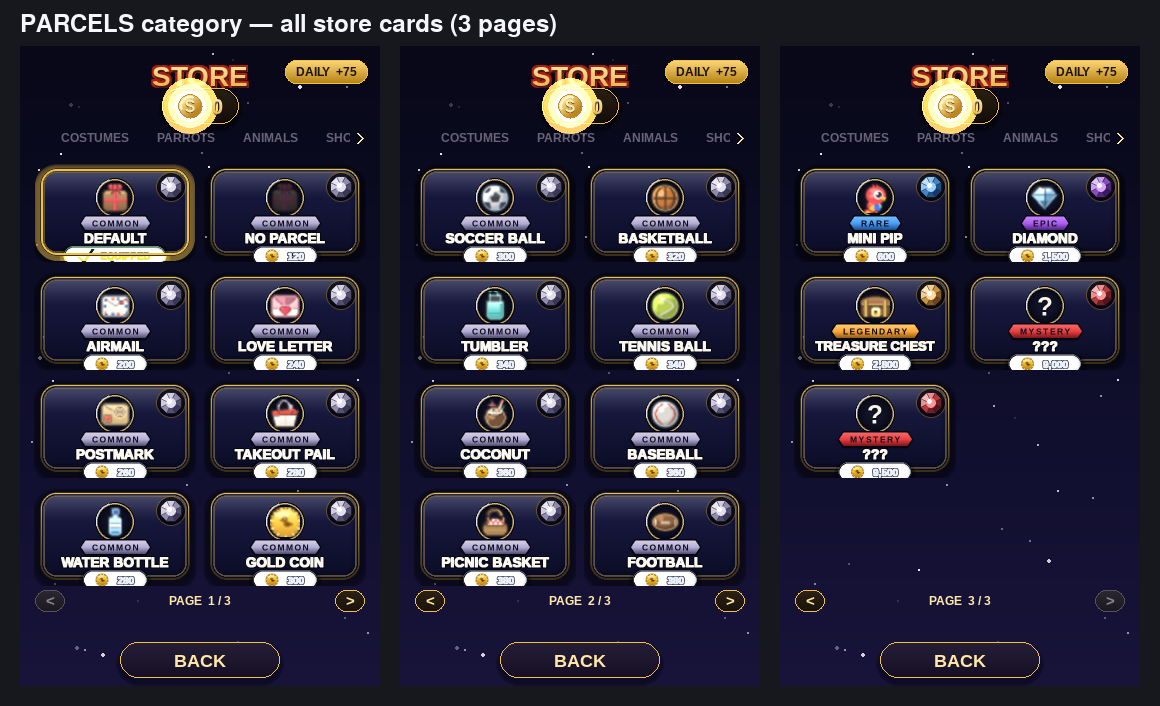
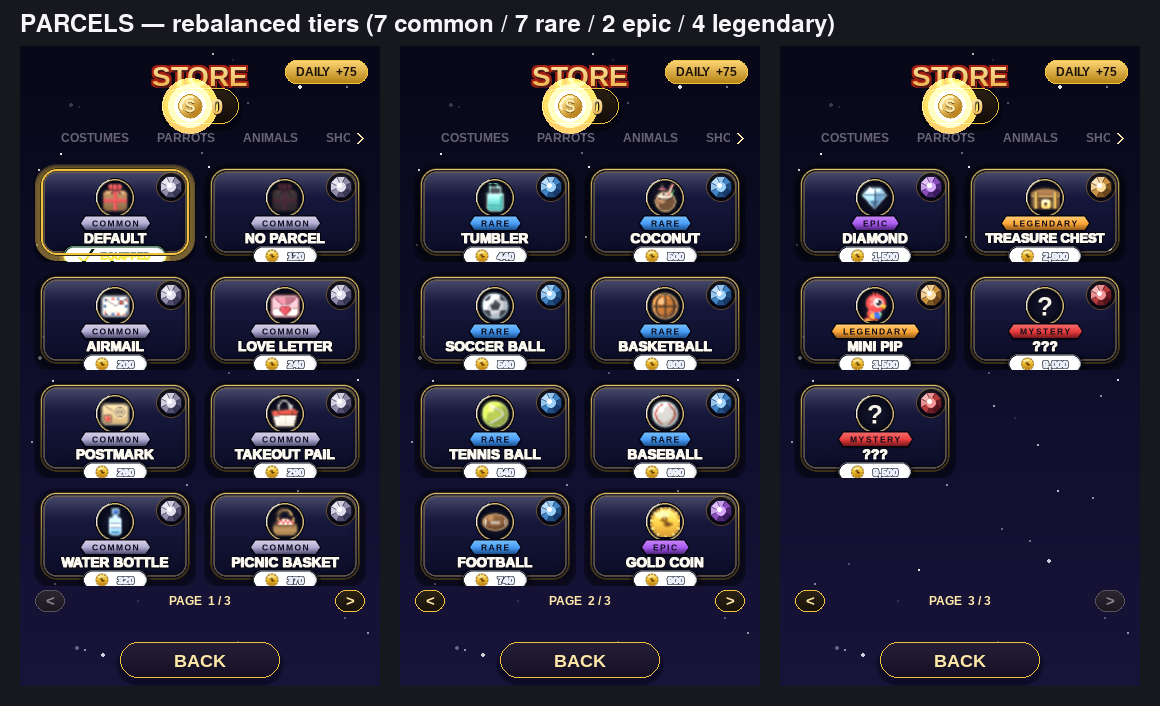
balance(store): reorganize PARCELS rarity tiers
Was 14 commons; rebalance to a pyramid (7 common / 7 rare / 2 epic / 4
legendary) by re-pricing across the cost-derived rarity bands. Drinks + sports
balls -> rare, GOLD COIN + DIAMOND -> epic, MINI PIP -> legendary (3500),
alongside TREASURE CHEST + the two secret premiums.

Claude-Session: https://claude.ai/code/session_01LRy6o4UF12eLEkWhBUbujk

diff --git a/game/store_catalog.py b/game/store_catalog.py
@@ -142,32 +142,38 @@ CATALOG: dict[str, dict] = {
     "skin_shades_cyber":   {"name": "CYBER VISOR",  "cost": 560, "kind": "skin", "group": "shades"},
 
     # ── PARCELS (the gift Pip carries below him; PARCEL_BASE is the free default) ─
-    # A tiered ladder from cheap everyday containers up to out-of-the-box
-    # spectacle pieces; the two priciest premiums are masked ??? until bought.
-    # NO PARCEL is the cheapest — the empty-handed look (mirrors NO SHADES); it
-    # only hides the sprite, Pip's parcel hitbox is unchanged so difficulty holds.
+    # Priced across the rarity bands so the tab is a proper pyramid, not a wall of
+    # commons: everyday mail/containers are COMMON (<400), the drinks + sports
+    # collectibles are RARE (400-799), the treasures are EPIC (800-2499), and the
+    # showpieces are LEGENDARY (>=2500). NO PARCEL is the cheapest — the empty-
+    # handed look (mirrors NO SHADES); it only hides the sprite, Pip's parcel
+    # hitbox is unchanged so difficulty holds.
+    # COMMON — everyday mail + basic containers
     "parcel_none":      {"name": "NO PARCEL",      "cost": 120,  "kind": "parcel", "group": "parcels"},
     "parcel_airmail":   {"name": "AIRMAIL",        "cost": 200,  "kind": "parcel", "group": "parcels"},
     "parcel_love":      {"name": "LOVE LETTER",    "cost": 240,  "kind": "parcel", "group": "parcels"},
     "parcel_postmark":  {"name": "POSTMARK",       "cost": 260,  "kind": "parcel", "group": "parcels"},
-    "parcel_takeout":   {"name": "TAKEOUT PAIL",   "cost": 280,  "kind": "parcel", "group": "parcels"},
-    "parcel_plastic":   {"name": "WATER BOTTLE",  "cost": 280,  "kind": "parcel", "group": "parcels"},
-    "parcel_tumbler":   {"name": "TUMBLER",       "cost": 340,  "kind": "parcel", "group": "parcels"},
-    "parcel_coconut":   {"name": "COCONUT",       "cost": 360,  "kind": "parcel", "group": "parcels"},
-    "parcel_picnic":    {"name": "PICNIC BASKET",  "cost": 380,  "kind": "parcel", "group": "parcels"},
-    "parcel_coin":      {"name": "GOLD COIN",      "cost": 300,  "kind": "parcel", "group": "parcels"},
-    "parcel_soccer":    {"name": "SOCCER BALL",    "cost": 300,  "kind": "parcel", "group": "parcels"},
-    "parcel_basketball": {"name": "BASKETBALL",    "cost": 320,  "kind": "parcel", "group": "parcels"},
-    "parcel_tennis":    {"name": "TENNIS BALL",    "cost": 340,  "kind": "parcel", "group": "parcels"},
-    "parcel_baseball":  {"name": "BASEBALL",       "cost": 360,  "kind": "parcel", "group": "parcels"},
-    "parcel_football":  {"name": "FOOTBALL",       "cost": 380,  "kind": "parcel", "group": "parcels"},
-    "parcel_minipip":   {"name": "MINI PIP",       "cost": 600,  "kind": "parcel", "group": "parcels"},
+    "parcel_takeout":   {"name": "TAKEOUT PAIL",   "cost": 290,  "kind": "parcel", "group": "parcels"},
+    "parcel_plastic":   {"name": "WATER BOTTLE",   "cost": 320,  "kind": "parcel", "group": "parcels"},
+    "parcel_picnic":    {"name": "PICNIC BASKET",  "cost": 370,  "kind": "parcel", "group": "parcels"},
+    # RARE — drinks + sports collectibles
+    "parcel_tumbler":   {"name": "TUMBLER",        "cost": 440,  "kind": "parcel", "group": "parcels"},
+    "parcel_coconut":   {"name": "COCONUT",        "cost": 500,  "kind": "parcel", "group": "parcels"},
+    "parcel_soccer":    {"name": "SOCCER BALL",    "cost": 560,  "kind": "parcel", "group": "parcels"},
+    "parcel_basketball": {"name": "BASKETBALL",    "cost": 600,  "kind": "parcel", "group": "parcels"},
+    "parcel_tennis":    {"name": "TENNIS BALL",    "cost": 640,  "kind": "parcel", "group": "parcels"},
+    "parcel_baseball":  {"name": "BASEBALL",       "cost": 690,  "kind": "parcel", "group": "parcels"},
+    "parcel_football":  {"name": "FOOTBALL",       "cost": 740,  "kind": "parcel", "group": "parcels"},
+    # EPIC — premium treasures
+    "parcel_coin":      {"name": "GOLD COIN",      "cost": 900,  "kind": "parcel", "group": "parcels"},
     "parcel_diamond":   {"name": "DIAMOND",        "cost": 1500, "kind": "parcel", "group": "parcels"},
+    # LEGENDARY — showpieces (the two secret premiums are masked ??? until bought)
     "parcel_chest":     {"name": "TREASURE CHEST", "cost": 2800, "kind": "parcel", "group": "parcels"},
-    "parcel_snowglobe": {"name": "SNOWGLOBE",      "cost": 9500, "kind": "parcel", "group": "parcels", "secret": True},
+    "parcel_minipip":   {"name": "MINI PIP",       "cost": 3500, "kind": "parcel", "group": "parcels"},
     # FINEST WHISKEY is a single mystery parcel: buying it rolls one of four
     # drams (decanter / scotch / bourbon / cask) at unlock, locked for good.
     "parcel_whiskey":   {"name": "FINEST WHISKEY", "cost": 9000, "kind": "parcel", "group": "parcels", "secret": True},
+    "parcel_snowglobe": {"name": "SNOWGLOBE",      "cost": 9500, "kind": "parcel", "group": "parcels", "secret": True},
 }
 
 
